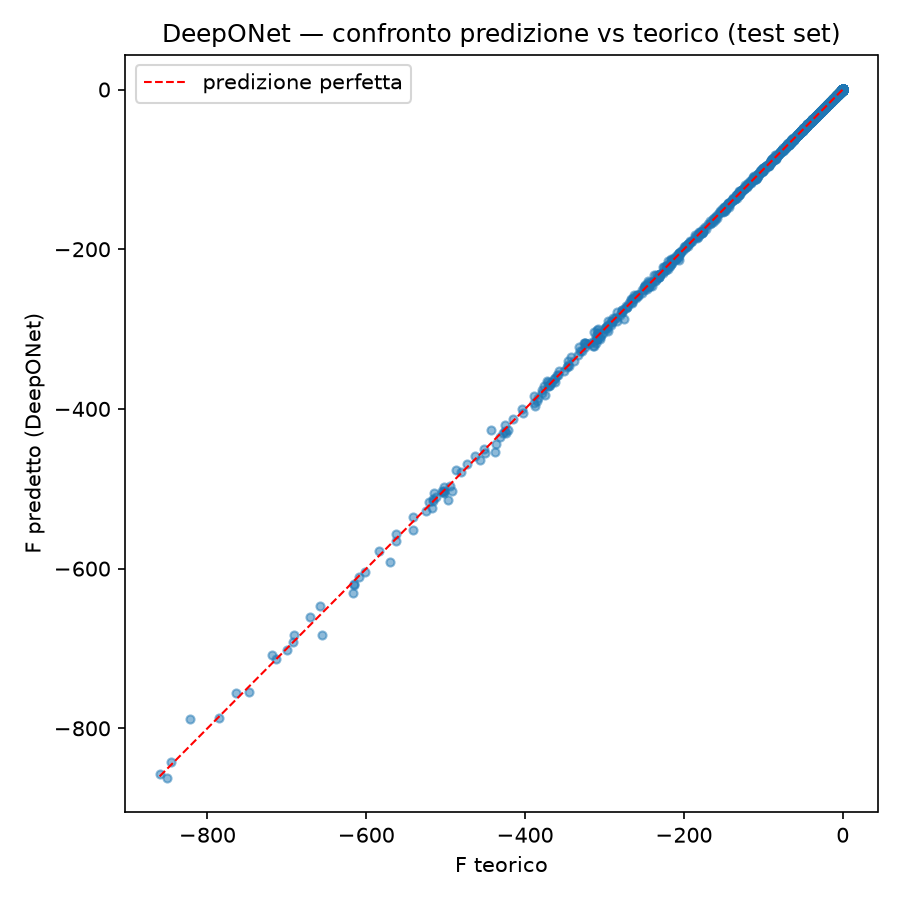
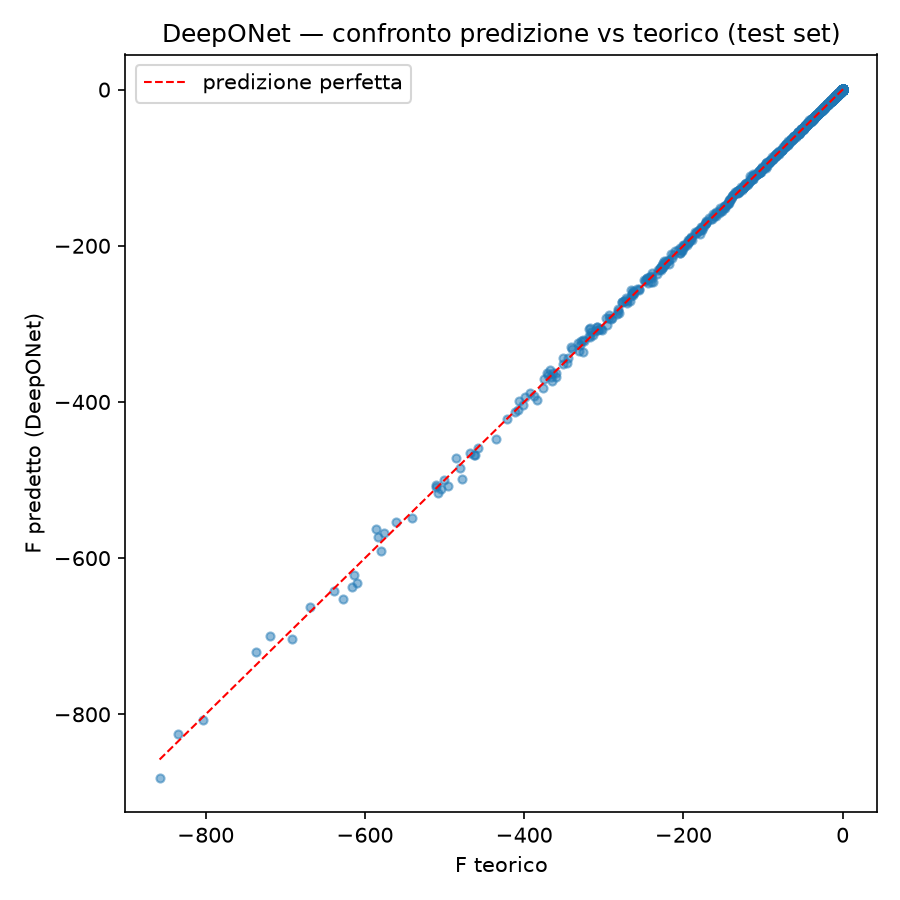
feat: adjust k_c range and update training parameters for improved model performance

diff --git a/src/training/train_deeponet.py b/src/training/train_deeponet.py
@@ -21,51 +21,8 @@ def split_deeponet_dataset(data, train_frac=0.6, val_frac=0.2, test_frac=0.2, se
 
     return {"train": subset(idx_train), "val": subset(idx_val), "test": subset(idx_test)}
 
-"""""
-def train_deeponet(model, splits, epochs=6000, lr=1e-3, device="cpu"):
-    optimizer = torch.optim.Adam(model.parameters(), lr=lr, amsgrad=True)
-    scheduler = torch.optim.lr_scheduler.CosineAnnealingLR(optimizer, T_max=epochs)
-    loss_fn = torch.nn.MSELoss()
-
-    train_data = splits["train"]
-    val_data = splits["val"]
-
-    history = {"train_loss": [], "val_loss": []}
-    best_val = float("inf")
-    best_state = None
-
-    for epoch in range(epochs):
-        model.train()
-        optimizer.zero_grad()
-        F_pred = model(train_data["profiles"], train_data["k_c"])
-
-        loss = loss_fn(F_pred, train_data["F"])
-        loss.backward()
-        torch.nn.utils.clip_grad_norm_(model.parameters(), max_norm=1.0)
-        optimizer.step()
-        scheduler.step()
-
-        model.eval()
-        with torch.no_grad():
-            F_val_pred = model(val_data["profiles"], val_data["k_c"])
-            val_loss = loss_fn(F_val_pred, val_data["F"])
-
-        history["train_loss"].append(loss.item())
-        history["val_loss"].append(val_loss.item())
-
-        if val_loss.item() < best_val:
-            best_val = val_loss.item()
-            best_state = {k: v.clone() for k, v in model.state_dict().items()}
-
-        if epoch % 400 == 0 or epoch == epochs - 1:
-            print(f"Epoch {epoch:5d} | train_loss: {loss.item():.6e} | val_loss: {val_loss.item():.6e}")
-
-    model.load_state_dict(best_state)
-    return model, history
-"""
-
-def train_deeponet(model, splits, epochs=8000, lr=1e-3, device="cpu",
-                    sensor_grid=None, A=1.0, k_c_min=0.2, k_c_max=0.9,
+def train_deeponet(model, splits, epochs=6000, lr=1e-3, device="cpu",
+                    sensor_grid=None, A=1.0, k_c_min=0.1, k_c_max=1.0,
                     lambda_bc=1.0, n_bc_points=50):
     optimizer = torch.optim.Adam(model.parameters(), lr=lr, amsgrad=True)
     scheduler = torch.optim.lr_scheduler.CosineAnnealingLR(optimizer, T_max=epochs)

diff --git a/main_deeponet.py b/main_deeponet.py
@@ -15,7 +15,7 @@ N_SENSORS = 200
 data = build_deeponet_dataset(
     alpha_min=-3, alpha_max=3.0, n_samples=25000, A=1.0,   # range ampliato, include 0
     k_min=config.K_MIN, k_max=config.K_MAX, n_sensors=N_SENSORS,
-    k_c_min=0.2, k_c_max=0.9, noise_std=0.01
+    k_c_min=0.1, k_c_max=1.0, noise_std=0.01
 )
 
 splits = split_deeponet_dataset(data, train_frac=0.6, val_frac=0.2, test_frac=0.2)
@@ -24,9 +24,9 @@ model = DeepONet(n_sensors=N_SENSORS, latent_dim=64, hidden=128)
 
 #model, history = train_deeponet(model, splits, epochs=6000, lr=1e-3)
 model, history = train_deeponet(
-    model, splits, epochs=8000, lr=1e-3,
+    model, splits, epochs=6000, lr=1e-3,
     sensor_grid=data["sensor_grid"], A=1.0,
-    k_c_min=0.2, k_c_max=0.9, lambda_bc=1.0
+    k_c_min=0.1, k_c_max=1.0, lambda_bc=1.0
 )
 
 plot_deeponet_loss(history, save_path="outputs/deeponet_loss.png", show=False)
@@ -36,7 +36,7 @@ plot_flux_prediction_test(model, splits["test"], save_path="outputs/deeponet_tes
 test_data = splits["test"]
 
 # servono anche gli alpha corrispondenti al test set, per il confronto analitico —
-# vedi nota sotto: build_deeponet_dataset non li restituisce ancora esplicitamente
+# build_deeponet_dataset non li restituisce ancora esplicitamente
 dF_learned, dF_true = validate_dF_dkc(
     model, test_data["profiles"], test_data["alphas"], test_data["k_c"], A=1.0
 )
@@ -65,6 +65,6 @@ plot_flux_vs_k(
     model, alphas=[0.5, 1.0, 1.5, 2.0], A=1.0,
     k_min=config.K_MIN, k_max=config.K_MAX, sensor_grid=data["sensor_grid"],
     k_c_values=np.linspace(config.K_MIN + 0.05, config.K_MAX - 0.05, 100),
-    alpha_highlight=-5/3,
+    alpha_highlight=5/3,
     save_path="outputs/flux_vs_k.png", show=False
 )

diff --git a/src/training/flux_validation_plots.py b/src/training/flux_validation_plots.py
@@ -42,7 +42,7 @@ def plot_flux_vs_alpha(model, alphas, A, k_min, k_max, sensor_grid, k_c, kz_line
         plt.show()
     plt.close()
 
-def plot_flux_vs_k(model, alphas, A, k_min, k_max, sensor_grid, k_c_values, alpha_highlight= -5/3, save_path=None, show=True):
+def plot_flux_vs_k(model, alphas, A, k_min, k_max, sensor_grid, k_c_values, alpha_highlight= 5/3, save_path=None, show=True):
     """
     Mostra il flusso F in funzione di k_c, per uno o più profili n_k
     (uno per ciascun alpha in alphas), sovrapposti.
